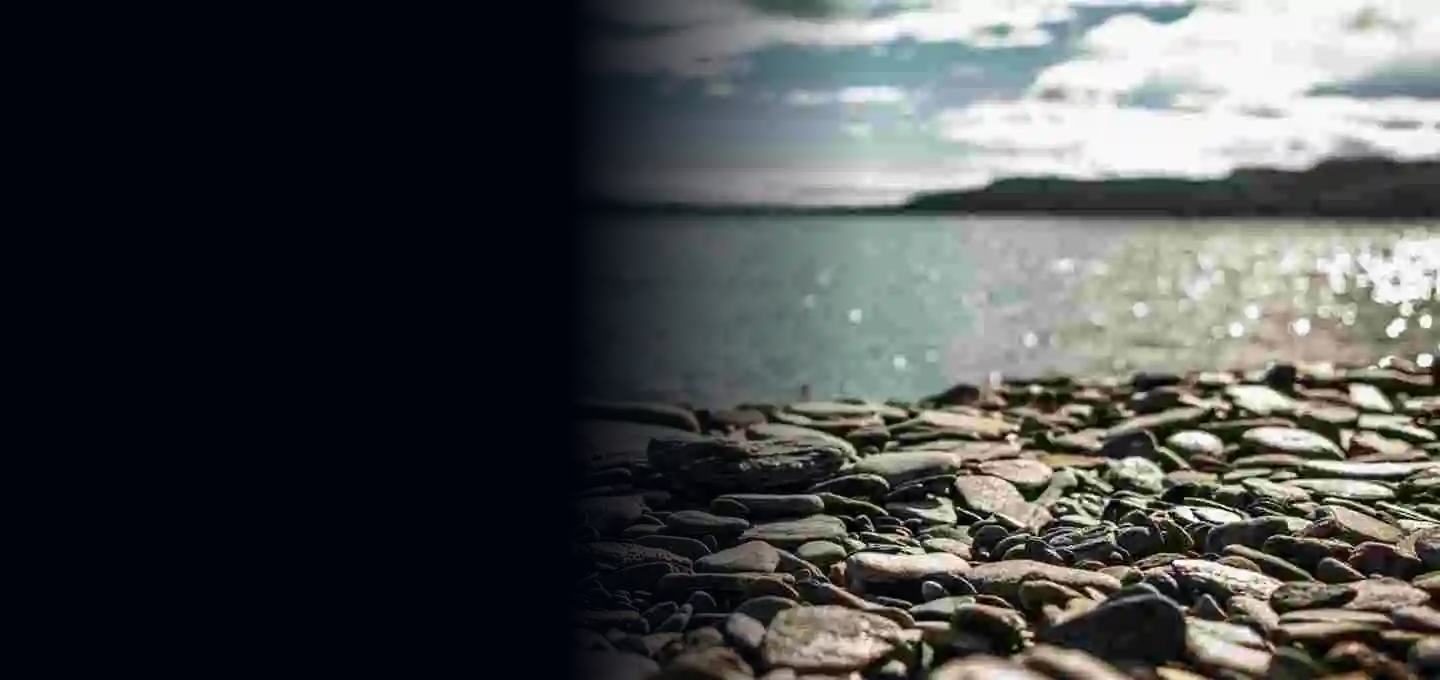
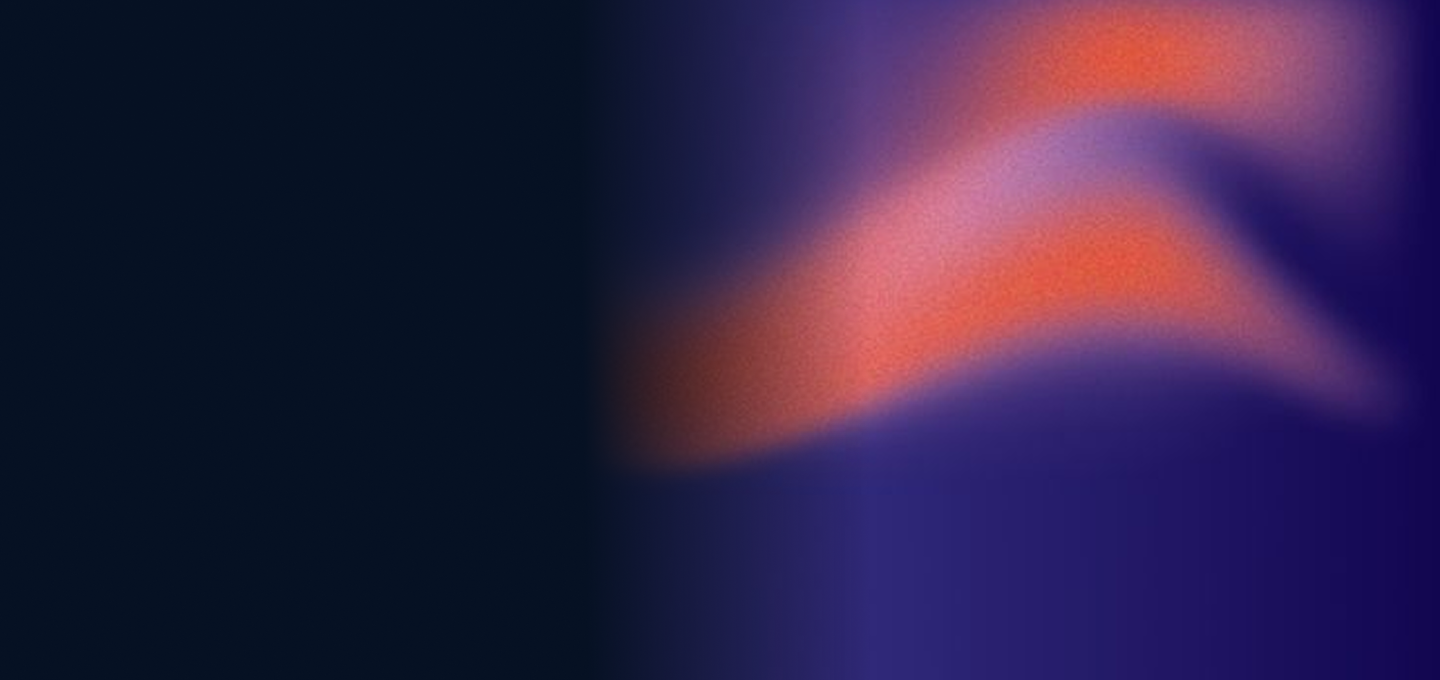
Alteração das cores e imagem de fundo

diff --git a/style.css b/style.css
@@ -1,12 +1,12 @@
 @import url('https://fonts.googleapis.com/css2?family=Inter:opsz,wght@14..32,100..900&display=swap');
 
 :root {
-    --branco-principal: #FFFFFF;
-    --cinza-secundario: #C0C0C0;
-    --botao-azul: #6627F8;
-    --cor-de-fundo: #00030C;
+    --branco-principal: #cfe5cc;
+    --cinza-secundario: hsl(0, 0%, 75%);
+    --botao-azul: #1b4793;
+    --cor-de-fundo: #061123;
     --fonte-principal: "Inter";
-    --botao-azul-efeito: #F8D827;
+    --botao-azul-efeito: #f7b0be;
 }
 
 * {
